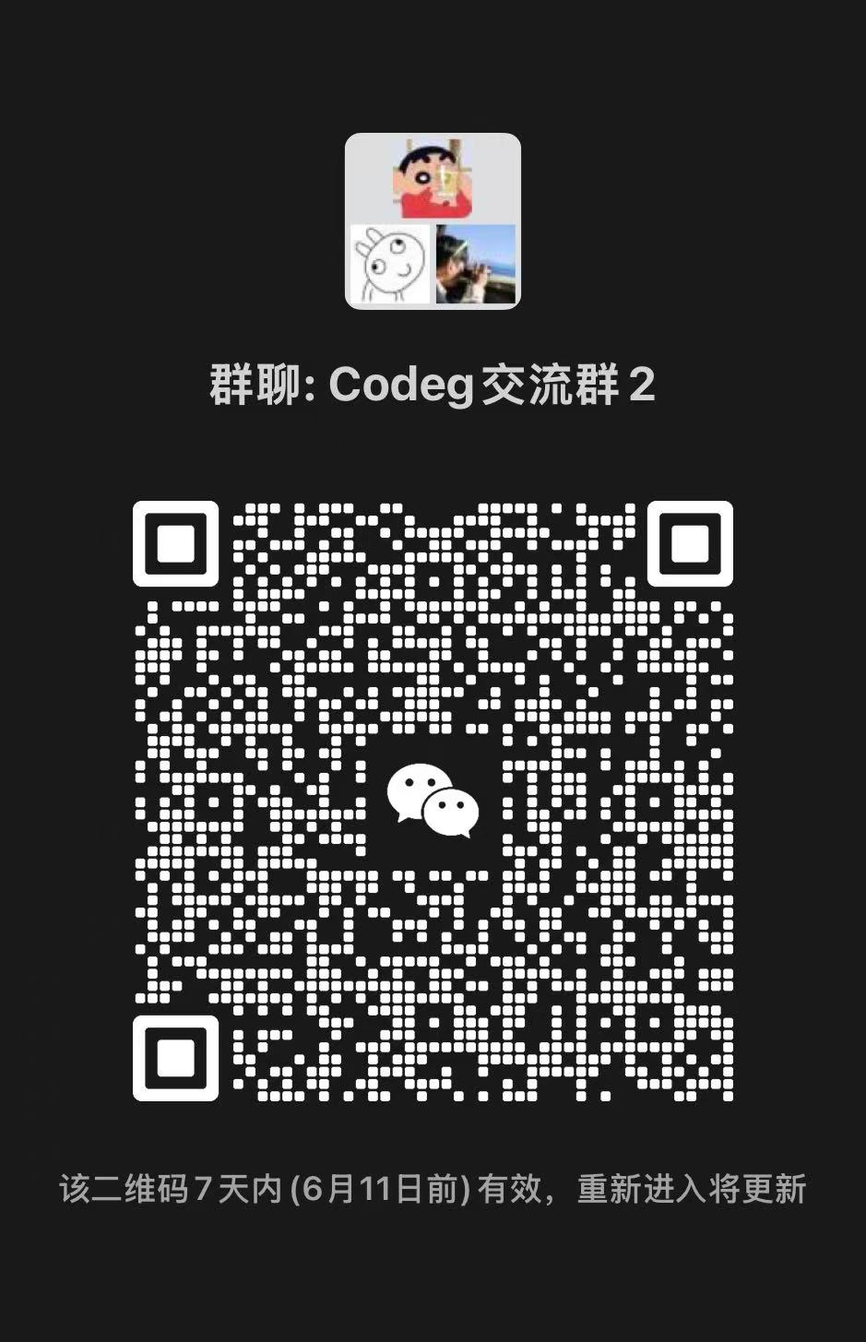
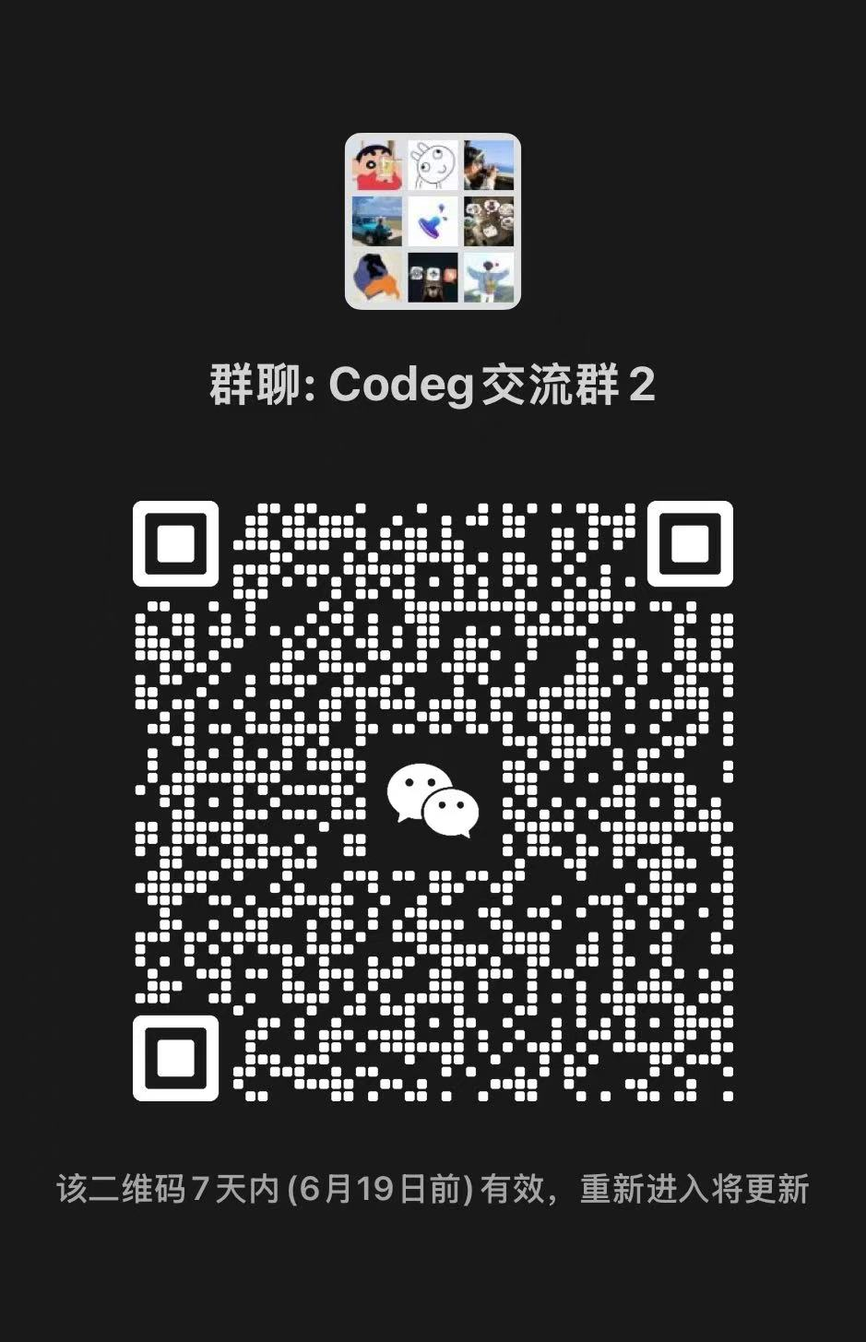
docs: rename Hermes to Hermes Agent and update WeChat images

diff --git a/docs/readme/README.ja.md b/docs/readme/README.ja.md
@@ -19,7 +19,7 @@
   <a href="./README.ar.md">العربية</a>
 </p>
 
-Codeg（Code Generation）は、マルチエージェント・コーディングワークスペースです。Claude Code、Codex CLI、OpenCode、Gemini CLI、OpenClaw、Cline、Hermes などの複数のエージェントを 1 つのワークスペースに統合し、会話の集約とマルチエージェント協働に対応します。デスクトップへのインストールに加え、サーバー/Docker デプロイにも対応しています。
+Codeg（Code Generation）は、マルチエージェント・コーディングワークスペースです。Claude Code、Codex CLI、OpenCode、Gemini CLI、OpenClaw、Cline、Hermes Agent などの複数のエージェントを 1 つのワークスペースに統合し、会話の集約とマルチエージェント協働に対応します。デスクトップへのインストールに加え、サーバー/Docker デプロイにも対応しています。
 
 ![gallery](../images/gallery.svg)
 
@@ -70,15 +70,15 @@ Codeg（Code Generation）は、マルチエージェント・コーディング
 
 ## 対応エージェント
 
-| Agent       | 環境変数パス                          | macOS / Linux デフォルト              | Windows デフォルト                                    |
-| ----------- | ------------------------------------- | ------------------------------------- | ----------------------------------------------------- |
-| Claude Code | `$CLAUDE_CONFIG_DIR/projects`         | `~/.claude/projects`                  | `%USERPROFILE%\\.claude\\projects`                    |
-| Codex CLI   | `$CODEX_HOME/sessions`                | `~/.codex/sessions`                   | `%USERPROFILE%\\.codex\\sessions`                     |
-| OpenCode    | `$XDG_DATA_HOME/opencode/opencode.db` | `~/.local/share/opencode/opencode.db` | `%USERPROFILE%\\.local\\share\\opencode\\opencode.db` |
-| Gemini CLI  | `$GEMINI_CLI_HOME/.gemini`            | `~/.gemini`                           | `%USERPROFILE%\\.gemini`                              |
-| OpenClaw    | —                                     | `~/.openclaw/agents`                  | `%USERPROFILE%\\.openclaw\\agents`                    |
-| Cline       | `$CLINE_DIR`                          | `~/.cline/data/tasks`                 | `%USERPROFILE%\\.cline\\data\\tasks`                  |
-| Hermes      | `$HERMES_HOME/state.db`               | `~/.hermes/state.db`                  | `%USERPROFILE%\\.hermes\\state.db`                    |
+| Agent        | 環境変数パス                          | macOS / Linux デフォルト              | Windows デフォルト                                    |
+| ------------ | ------------------------------------- | ------------------------------------- | ----------------------------------------------------- |
+| Claude Code  | `$CLAUDE_CONFIG_DIR/projects`         | `~/.claude/projects`                  | `%USERPROFILE%\\.claude\\projects`                    |
+| Codex CLI    | `$CODEX_HOME/sessions`                | `~/.codex/sessions`                   | `%USERPROFILE%\\.codex\\sessions`                     |
+| OpenCode     | `$XDG_DATA_HOME/opencode/opencode.db` | `~/.local/share/opencode/opencode.db` | `%USERPROFILE%\\.local\\share\\opencode\\opencode.db` |
+| Gemini CLI   | `$GEMINI_CLI_HOME/.gemini`            | `~/.gemini`                           | `%USERPROFILE%\\.gemini`                              |
+| OpenClaw     | —                                     | `~/.openclaw/agents`                  | `%USERPROFILE%\\.openclaw\\agents`                    |
+| Cline        | `$CLINE_DIR`                          | `~/.cline/data/tasks`                 | `%USERPROFILE%\\.cline\\data\\tasks`                  |
+| Hermes Agent | `$HERMES_HOME/state.db`               | `~/.hermes/state.db`                  | `%USERPROFILE%\\.hermes\\state.db`                    |
 
 > 注: 環境変数はフォールバックパスより優先されます。
 

diff --git a/docs/readme/README.fr.md b/docs/readme/README.fr.md
@@ -19,7 +19,7 @@
   <a href="./README.ar.md">العربية</a>
 </p>
 
-Codeg (Code Generation) est un espace de travail de codage multi-agent. Il réunit plusieurs agents (Claude Code, Codex CLI, OpenCode, Gemini CLI, OpenClaw, Cline, Hermes, etc.) dans un seul espace de travail, prend en charge l'agrégation des conversations et la collaboration multi-agent, ainsi que l'installation desktop et le déploiement serveur/Docker.
+Codeg (Code Generation) est un espace de travail de codage multi-agent. Il réunit plusieurs agents (Claude Code, Codex CLI, OpenCode, Gemini CLI, OpenClaw, Cline, Hermes Agent, etc.) dans un seul espace de travail, prend en charge l'agrégation des conversations et la collaboration multi-agent, ainsi que l'installation desktop et le déploiement serveur/Docker.
 
 ![gallery](../images/gallery.svg)
 
@@ -70,15 +70,15 @@ Codeg (Code Generation) est un espace de travail de codage multi-agent. Il réun
 
 ## Agents supportés
 
-| Agent       | Chemin via variable d'environnement   | Défaut macOS / Linux                  | Défaut Windows                                        |
-| ----------- | ------------------------------------- | ------------------------------------- | ----------------------------------------------------- |
-| Claude Code | `$CLAUDE_CONFIG_DIR/projects`         | `~/.claude/projects`                  | `%USERPROFILE%\\.claude\\projects`                    |
-| Codex CLI   | `$CODEX_HOME/sessions`                | `~/.codex/sessions`                   | `%USERPROFILE%\\.codex\\sessions`                     |
-| OpenCode    | `$XDG_DATA_HOME/opencode/opencode.db` | `~/.local/share/opencode/opencode.db` | `%USERPROFILE%\\.local\\share\\opencode\\opencode.db` |
-| Gemini CLI  | `$GEMINI_CLI_HOME/.gemini`            | `~/.gemini`                           | `%USERPROFILE%\\.gemini`                              |
-| OpenClaw    | —                                     | `~/.openclaw/agents`                  | `%USERPROFILE%\\.openclaw\\agents`                    |
-| Cline       | `$CLINE_DIR`                          | `~/.cline/data/tasks`                 | `%USERPROFILE%\\.cline\\data\\tasks`                  |
-| Hermes      | `$HERMES_HOME/state.db`               | `~/.hermes/state.db`                  | `%USERPROFILE%\\.hermes\\state.db`                    |
+| Agent        | Chemin via variable d'environnement   | Défaut macOS / Linux                  | Défaut Windows                                        |
+| ------------ | ------------------------------------- | ------------------------------------- | ----------------------------------------------------- |
+| Claude Code  | `$CLAUDE_CONFIG_DIR/projects`         | `~/.claude/projects`                  | `%USERPROFILE%\\.claude\\projects`                    |
+| Codex CLI    | `$CODEX_HOME/sessions`                | `~/.codex/sessions`                   | `%USERPROFILE%\\.codex\\sessions`                     |
+| OpenCode     | `$XDG_DATA_HOME/opencode/opencode.db` | `~/.local/share/opencode/opencode.db` | `%USERPROFILE%\\.local\\share\\opencode\\opencode.db` |
+| Gemini CLI   | `$GEMINI_CLI_HOME/.gemini`            | `~/.gemini`                           | `%USERPROFILE%\\.gemini`                              |
+| OpenClaw     | —                                     | `~/.openclaw/agents`                  | `%USERPROFILE%\\.openclaw\\agents`                    |
+| Cline        | `$CLINE_DIR`                          | `~/.cline/data/tasks`                 | `%USERPROFILE%\\.cline\\data\\tasks`                  |
+| Hermes Agent | `$HERMES_HOME/state.db`               | `~/.hermes/state.db`                  | `%USERPROFILE%\\.hermes\\state.db`                    |
 
 > Remarque : les variables d'environnement ont priorité sur les chemins par défaut.
 

diff --git a/docs/readme/README.ko.md b/docs/readme/README.ko.md
@@ -19,7 +19,7 @@
   <a href="./README.ar.md">العربية</a>
 </p>
 
-Codeg(Code Generation)는 멀티 에이전트 코딩 워크스페이스입니다. Claude Code, Codex CLI, OpenCode, Gemini CLI, OpenClaw, Cline, Hermes 등의 여러 에이전트를 하나의 워크스페이스로 통합하며, 대화 집계와 멀티 에이전트 협업을 지원하고 데스크톱 설치와 서버/Docker 배포를 지원합니다.
+Codeg(Code Generation)는 멀티 에이전트 코딩 워크스페이스입니다. Claude Code, Codex CLI, OpenCode, Gemini CLI, OpenClaw, Cline, Hermes Agent 등의 여러 에이전트를 하나의 워크스페이스로 통합하며, 대화 집계와 멀티 에이전트 협업을 지원하고 데스크톱 설치와 서버/Docker 배포를 지원합니다.
 
 ![gallery](../images/gallery.svg)
 
@@ -70,15 +70,15 @@ Codeg(Code Generation)는 멀티 에이전트 코딩 워크스페이스입니다
 
 ## 지원 에이전트
 
-| Agent       | 환경 변수 경로                        | macOS / Linux 기본값                  | Windows 기본값                                        |
-| ----------- | ------------------------------------- | ------------------------------------- | ----------------------------------------------------- |
-| Claude Code | `$CLAUDE_CONFIG_DIR/projects`         | `~/.claude/projects`                  | `%USERPROFILE%\\.claude\\projects`                    |
-| Codex CLI   | `$CODEX_HOME/sessions`                | `~/.codex/sessions`                   | `%USERPROFILE%\\.codex\\sessions`                     |
-| OpenCode    | `$XDG_DATA_HOME/opencode/opencode.db` | `~/.local/share/opencode/opencode.db` | `%USERPROFILE%\\.local\\share\\opencode\\opencode.db` |
-| Gemini CLI  | `$GEMINI_CLI_HOME/.gemini`            | `~/.gemini`                           | `%USERPROFILE%\\.gemini`                              |
-| OpenClaw    | —                                     | `~/.openclaw/agents`                  | `%USERPROFILE%\\.openclaw\\agents`                    |
-| Cline       | `$CLINE_DIR`                          | `~/.cline/data/tasks`                 | `%USERPROFILE%\\.cline\\data\\tasks`                  |
-| Hermes      | `$HERMES_HOME/state.db`               | `~/.hermes/state.db`                  | `%USERPROFILE%\\.hermes\\state.db`                    |
+| Agent        | 환경 변수 경로                        | macOS / Linux 기본값                  | Windows 기본값                                        |
+| ------------ | ------------------------------------- | ------------------------------------- | ----------------------------------------------------- |
+| Claude Code  | `$CLAUDE_CONFIG_DIR/projects`         | `~/.claude/projects`                  | `%USERPROFILE%\\.claude\\projects`                    |
+| Codex CLI    | `$CODEX_HOME/sessions`                | `~/.codex/sessions`                   | `%USERPROFILE%\\.codex\\sessions`                     |
+| OpenCode     | `$XDG_DATA_HOME/opencode/opencode.db` | `~/.local/share/opencode/opencode.db` | `%USERPROFILE%\\.local\\share\\opencode\\opencode.db` |
+| Gemini CLI   | `$GEMINI_CLI_HOME/.gemini`            | `~/.gemini`                           | `%USERPROFILE%\\.gemini`                              |
+| OpenClaw     | —                                     | `~/.openclaw/agents`                  | `%USERPROFILE%\\.openclaw\\agents`                    |
+| Cline        | `$CLINE_DIR`                          | `~/.cline/data/tasks`                 | `%USERPROFILE%\\.cline\\data\\tasks`                  |
+| Hermes Agent | `$HERMES_HOME/state.db`               | `~/.hermes/state.db`                  | `%USERPROFILE%\\.hermes\\state.db`                    |
 
 > 참고: 환경 변수가 기본 경로보다 우선합니다.
 

diff --git a/docs/readme/README.es.md b/docs/readme/README.es.md
@@ -19,7 +19,7 @@
   <a href="./README.ar.md">العربية</a>
 </p>
 
-Codeg (Code Generation) es un espacio de trabajo de codificación multiagente. Unifica varios agentes (Claude Code, Codex CLI, OpenCode, Gemini CLI, OpenClaw, Cline, Hermes, etc.) en un único espacio de trabajo, admite agregación de conversaciones y colaboración multiagente, y permite instalación de escritorio y despliegue en servidor/Docker.
+Codeg (Code Generation) es un espacio de trabajo de codificación multiagente. Unifica varios agentes (Claude Code, Codex CLI, OpenCode, Gemini CLI, OpenClaw, Cline, Hermes Agent, etc.) en un único espacio de trabajo, admite agregación de conversaciones y colaboración multiagente, y permite instalación de escritorio y despliegue en servidor/Docker.
 
 ![gallery](../images/gallery.svg)
 
@@ -70,15 +70,15 @@ Codeg (Code Generation) es un espacio de trabajo de codificación multiagente. U
 
 ## Agentes compatibles
 
-| Agente      | Ruta de variable de entorno           | Ruta por defecto en macOS / Linux     | Ruta por defecto en Windows                           |
-| ----------- | ------------------------------------- | ------------------------------------- | ----------------------------------------------------- |
-| Claude Code | `$CLAUDE_CONFIG_DIR/projects`         | `~/.claude/projects`                  | `%USERPROFILE%\\.claude\\projects`                    |
-| Codex CLI   | `$CODEX_HOME/sessions`                | `~/.codex/sessions`                   | `%USERPROFILE%\\.codex\\sessions`                     |
-| OpenCode    | `$XDG_DATA_HOME/opencode/opencode.db` | `~/.local/share/opencode/opencode.db` | `%USERPROFILE%\\.local\\share\\opencode\\opencode.db` |
-| Gemini CLI  | `$GEMINI_CLI_HOME/.gemini`            | `~/.gemini`                           | `%USERPROFILE%\\.gemini`                              |
-| OpenClaw    | —                                     | `~/.openclaw/agents`                  | `%USERPROFILE%\\.openclaw\\agents`                    |
-| Cline       | `$CLINE_DIR`                          | `~/.cline/data/tasks`                 | `%USERPROFILE%\\.cline\\data\\tasks`                  |
-| Hermes      | `$HERMES_HOME/state.db`               | `~/.hermes/state.db`                  | `%USERPROFILE%\\.hermes\\state.db`                    |
+| Agente       | Ruta de variable de entorno           | Ruta por defecto en macOS / Linux     | Ruta por defecto en Windows                           |
+| ------------ | ------------------------------------- | ------------------------------------- | ----------------------------------------------------- |
+| Claude Code  | `$CLAUDE_CONFIG_DIR/projects`         | `~/.claude/projects`                  | `%USERPROFILE%\\.claude\\projects`                    |
+| Codex CLI    | `$CODEX_HOME/sessions`                | `~/.codex/sessions`                   | `%USERPROFILE%\\.codex\\sessions`                     |
+| OpenCode     | `$XDG_DATA_HOME/opencode/opencode.db` | `~/.local/share/opencode/opencode.db` | `%USERPROFILE%\\.local\\share\\opencode\\opencode.db` |
+| Gemini CLI   | `$GEMINI_CLI_HOME/.gemini`            | `~/.gemini`                           | `%USERPROFILE%\\.gemini`                              |
+| OpenClaw     | —                                     | `~/.openclaw/agents`                  | `%USERPROFILE%\\.openclaw\\agents`                    |
+| Cline        | `$CLINE_DIR`                          | `~/.cline/data/tasks`                 | `%USERPROFILE%\\.cline\\data\\tasks`                  |
+| Hermes Agent | `$HERMES_HOME/state.db`               | `~/.hermes/state.db`                  | `%USERPROFILE%\\.hermes\\state.db`                    |
 
 > Nota: las variables de entorno tienen prioridad sobre las rutas de respaldo.
 

diff --git a/docs/readme/README.pt.md b/docs/readme/README.pt.md
@@ -19,7 +19,7 @@
   <a href="./README.ar.md">العربية</a>
 </p>
 
-Codeg (Code Generation) é um workspace de codificação multiagente. Ele reúne vários agentes (Claude Code, Codex CLI, OpenCode, Gemini CLI, OpenClaw, Cline, Hermes, etc.) em um único workspace, com suporte à agregação de conversas e à colaboração multiagente, além de instalação desktop e implantação em servidor/Docker.
+Codeg (Code Generation) é um workspace de codificação multiagente. Ele reúne vários agentes (Claude Code, Codex CLI, OpenCode, Gemini CLI, OpenClaw, Cline, Hermes Agent, etc.) em um único workspace, com suporte à agregação de conversas e à colaboração multiagente, além de instalação desktop e implantação em servidor/Docker.
 
 ![gallery](../images/gallery.svg)
 
@@ -70,15 +70,15 @@ Codeg (Code Generation) é um workspace de codificação multiagente. Ele reúne
 
 ## Agentes suportados
 
-| Agente      | Caminho por variável de ambiente      | Padrão macOS / Linux                  | Padrão Windows                                        |
-| ----------- | ------------------------------------- | ------------------------------------- | ----------------------------------------------------- |
-| Claude Code | `$CLAUDE_CONFIG_DIR/projects`         | `~/.claude/projects`                  | `%USERPROFILE%\\.claude\\projects`                    |
-| Codex CLI   | `$CODEX_HOME/sessions`                | `~/.codex/sessions`                   | `%USERPROFILE%\\.codex\\sessions`                     |
-| OpenCode    | `$XDG_DATA_HOME/opencode/opencode.db` | `~/.local/share/opencode/opencode.db` | `%USERPROFILE%\\.local\\share\\opencode\\opencode.db` |
-| Gemini CLI  | `$GEMINI_CLI_HOME/.gemini`            | `~/.gemini`                           | `%USERPROFILE%\\.gemini`                              |
-| OpenClaw    | —                                     | `~/.openclaw/agents`                  | `%USERPROFILE%\\.openclaw\\agents`                    |
-| Cline       | `$CLINE_DIR`                          | `~/.cline/data/tasks`                 | `%USERPROFILE%\\.cline\\data\\tasks`                  |
-| Hermes      | `$HERMES_HOME/state.db`               | `~/.hermes/state.db`                  | `%USERPROFILE%\\.hermes\\state.db`                    |
+| Agente       | Caminho por variável de ambiente      | Padrão macOS / Linux                  | Padrão Windows                                        |
+| ------------ | ------------------------------------- | ------------------------------------- | ----------------------------------------------------- |
+| Claude Code  | `$CLAUDE_CONFIG_DIR/projects`         | `~/.claude/projects`                  | `%USERPROFILE%\\.claude\\projects`                    |
+| Codex CLI    | `$CODEX_HOME/sessions`                | `~/.codex/sessions`                   | `%USERPROFILE%\\.codex\\sessions`                     |
+| OpenCode     | `$XDG_DATA_HOME/opencode/opencode.db` | `~/.local/share/opencode/opencode.db` | `%USERPROFILE%\\.local\\share\\opencode\\opencode.db` |
+| Gemini CLI   | `$GEMINI_CLI_HOME/.gemini`            | `~/.gemini`                           | `%USERPROFILE%\\.gemini`                              |
+| OpenClaw     | —                                     | `~/.openclaw/agents`                  | `%USERPROFILE%\\.openclaw\\agents`                    |
+| Cline        | `$CLINE_DIR`                          | `~/.cline/data/tasks`                 | `%USERPROFILE%\\.cline\\data\\tasks`                  |
+| Hermes Agent | `$HERMES_HOME/state.db`               | `~/.hermes/state.db`                  | `%USERPROFILE%\\.hermes\\state.db`                    |
 
 > Nota: as variáveis de ambiente têm prioridade sobre os caminhos padrão.
 

diff --git a/docs/readme/README.de.md b/docs/readme/README.de.md
@@ -19,7 +19,7 @@
   <a href="./README.ar.md">العربية</a>
 </p>
 
-Codeg (Code Generation) ist ein Multi-Agent-Coding-Workspace. Es vereint mehrere Agenten (Claude Code, Codex CLI, OpenCode, Gemini CLI, OpenClaw, Cline, Hermes usw.) in einem Arbeitsbereich, unterstützt Konversationsaggregation und Multi-Agent-Zusammenarbeit sowie Desktop-Installation und Server-/Docker-Bereitstellung.
+Codeg (Code Generation) ist ein Multi-Agent-Coding-Workspace. Es vereint mehrere Agenten (Claude Code, Codex CLI, OpenCode, Gemini CLI, OpenClaw, Cline, Hermes Agent usw.) in einem Arbeitsbereich, unterstützt Konversationsaggregation und Multi-Agent-Zusammenarbeit sowie Desktop-Installation und Server-/Docker-Bereitstellung.
 
 ![gallery](../images/gallery.svg)
 
@@ -70,15 +70,15 @@ Codeg (Code Generation) ist ein Multi-Agent-Coding-Workspace. Es vereint mehrere
 
 ## Unterstützte Agenten
 
-| Agent       | Umgebungsvariablen-Pfad               | macOS / Linux Standard                | Windows Standard                                      |
-| ----------- | ------------------------------------- | ------------------------------------- | ----------------------------------------------------- |
-| Claude Code | `$CLAUDE_CONFIG_DIR/projects`         | `~/.claude/projects`                  | `%USERPROFILE%\\.claude\\projects`                    |
-| Codex CLI   | `$CODEX_HOME/sessions`                | `~/.codex/sessions`                   | `%USERPROFILE%\\.codex\\sessions`                     |
-| OpenCode    | `$XDG_DATA_HOME/opencode/opencode.db` | `~/.local/share/opencode/opencode.db` | `%USERPROFILE%\\.local\\share\\opencode\\opencode.db` |
-| Gemini CLI  | `$GEMINI_CLI_HOME/.gemini`            | `~/.gemini`                           | `%USERPROFILE%\\.gemini`                              |
-| OpenClaw    | —                                     | `~/.openclaw/agents`                  | `%USERPROFILE%\\.openclaw\\agents`                    |
-| Cline       | `$CLINE_DIR`                          | `~/.cline/data/tasks`                 | `%USERPROFILE%\\.cline\\data\\tasks`                  |
-| Hermes      | `$HERMES_HOME/state.db`               | `~/.hermes/state.db`                  | `%USERPROFILE%\\.hermes\\state.db`                    |
+| Agent        | Umgebungsvariablen-Pfad               | macOS / Linux Standard                | Windows Standard                                      |
+| ------------ | ------------------------------------- | ------------------------------------- | ----------------------------------------------------- |
+| Claude Code  | `$CLAUDE_CONFIG_DIR/projects`         | `~/.claude/projects`                  | `%USERPROFILE%\\.claude\\projects`                    |
+| Codex CLI    | `$CODEX_HOME/sessions`                | `~/.codex/sessions`                   | `%USERPROFILE%\\.codex\\sessions`                     |
+| OpenCode     | `$XDG_DATA_HOME/opencode/opencode.db` | `~/.local/share/opencode/opencode.db` | `%USERPROFILE%\\.local\\share\\opencode\\opencode.db` |
+| Gemini CLI   | `$GEMINI_CLI_HOME/.gemini`            | `~/.gemini`                           | `%USERPROFILE%\\.gemini`                              |
+| OpenClaw     | —                                     | `~/.openclaw/agents`                  | `%USERPROFILE%\\.openclaw\\agents`                    |
+| Cline        | `$CLINE_DIR`                          | `~/.cline/data/tasks`                 | `%USERPROFILE%\\.cline\\data\\tasks`                  |
+| Hermes Agent | `$HERMES_HOME/state.db`               | `~/.hermes/state.db`                  | `%USERPROFILE%\\.hermes\\state.db`                    |
 
 > Hinweis: Umgebungsvariablen haben Vorrang vor Fallback-Pfaden.
 

diff --git a/README.md b/README.md
@@ -19,7 +19,7 @@
   <a href="./docs/readme/README.ar.md">العربية</a>
 </p>
 
-Codeg (Code Generation) is a multi-agent coding workspace. It brings multiple agents (Claude Code, Codex CLI, OpenCode, Gemini CLI, OpenClaw, Cline, Hermes, etc.) into one workspace, supporting conversation aggregation and multi-agent collaboration, with desktop installation plus server/Docker deployment.
+Codeg (Code Generation) is a multi-agent coding workspace. It brings multiple agents (Claude Code, Codex CLI, OpenCode, Gemini CLI, OpenClaw, Cline, Hermes Agent, etc.) into one workspace, supporting conversation aggregation and multi-agent collaboration, with desktop installation plus server/Docker deployment.
 
 ![gallery](./docs/images/gallery.svg)
 
@@ -70,15 +70,15 @@ Codeg (Code Generation) is a multi-agent coding workspace. It brings multiple ag
 
 ## Supported Agents
 
-| Agent       | Environment Variable Path             | macOS / Linux Default                 | Windows Default                                       |
-| ----------- | ------------------------------------- | ------------------------------------- | ----------------------------------------------------- |
-| Claude Code | `$CLAUDE_CONFIG_DIR/projects`         | `~/.claude/projects`                  | `%USERPROFILE%\\.claude\\projects`                    |
-| Codex CLI   | `$CODEX_HOME/sessions`                | `~/.codex/sessions`                   | `%USERPROFILE%\\.codex\\sessions`                     |
-| OpenCode    | `$XDG_DATA_HOME/opencode/opencode.db` | `~/.local/share/opencode/opencode.db` | `%USERPROFILE%\\.local\\share\\opencode\\opencode.db` |
-| Gemini CLI  | `$GEMINI_CLI_HOME/.gemini`            | `~/.gemini`                           | `%USERPROFILE%\\.gemini`                              |
-| OpenClaw    | —                                     | `~/.openclaw/agents`                  | `%USERPROFILE%\\.openclaw\\agents`                    |
-| Cline       | `$CLINE_DIR`                          | `~/.cline/data/tasks`                 | `%USERPROFILE%\\.cline\\data\\tasks`                  |
-| Hermes      | `$HERMES_HOME/state.db`               | `~/.hermes/state.db`                  | `%USERPROFILE%\\.hermes\\state.db`                    |
+| Agent        | Environment Variable Path             | macOS / Linux Default                 | Windows Default                                       |
+| ------------ | ------------------------------------- | ------------------------------------- | ----------------------------------------------------- |
+| Claude Code  | `$CLAUDE_CONFIG_DIR/projects`         | `~/.claude/projects`                  | `%USERPROFILE%\\.claude\\projects`                    |
+| Codex CLI    | `$CODEX_HOME/sessions`                | `~/.codex/sessions`                   | `%USERPROFILE%\\.codex\\sessions`                     |
+| OpenCode     | `$XDG_DATA_HOME/opencode/opencode.db` | `~/.local/share/opencode/opencode.db` | `%USERPROFILE%\\.local\\share\\opencode\\opencode.db` |
+| Gemini CLI   | `$GEMINI_CLI_HOME/.gemini`            | `~/.gemini`                           | `%USERPROFILE%\\.gemini`                              |
+| OpenClaw     | —                                     | `~/.openclaw/agents`                  | `%USERPROFILE%\\.openclaw\\agents`                    |
+| Cline        | `$CLINE_DIR`                          | `~/.cline/data/tasks`                 | `%USERPROFILE%\\.cline\\data\\tasks`                  |
+| Hermes Agent | `$HERMES_HOME/state.db`               | `~/.hermes/state.db`                  | `%USERPROFILE%\\.hermes\\state.db`                    |
 
 > Note: environment variables take precedence over fallback paths.
 

diff --git a/docs/readme/README.zh-TW.md b/docs/readme/README.zh-TW.md
@@ -19,7 +19,7 @@
   <a href="./README.ar.md">العربية</a>
 </p>
 
-Codeg（Code Generation）是一個多智慧體編碼工作台，它將多個智慧體（Claude Code、Codex CLI、OpenCode、Gemini CLI、OpenClaw、Cline、Hermes 等）統一到一個工作區中，支援會話彙整和多智慧體協作，支援桌面安裝、伺服器/Docker 部署。
+Codeg（Code Generation）是一個多智慧體編碼工作台，它將多個智慧體（Claude Code、Codex CLI、OpenCode、Gemini CLI、OpenClaw、Cline、Hermes Agent 等）統一到一個工作區中，支援會話彙整和多智慧體協作，支援桌面安裝、伺服器/Docker 部署。
 
 ![gallery](../images/gallery.svg)
 
@@ -70,15 +70,15 @@ Codeg（Code Generation）是一個多智慧體編碼工作台，它將多個智
 
 ## 支援的 Agent
 
-| Agent       | 環境變數優先路徑                      | macOS / Linux 預設路徑                | Windows 預設路徑                                      |
-| ----------- | ------------------------------------- | ------------------------------------- | ----------------------------------------------------- |
-| Claude Code | `$CLAUDE_CONFIG_DIR/projects`         | `~/.claude/projects`                  | `%USERPROFILE%\\.claude\\projects`                    |
-| Codex CLI   | `$CODEX_HOME/sessions`                | `~/.codex/sessions`                   | `%USERPROFILE%\\.codex\\sessions`                     |
-| OpenCode    | `$XDG_DATA_HOME/opencode/opencode.db` | `~/.local/share/opencode/opencode.db` | `%USERPROFILE%\\.local\\share\\opencode\\opencode.db` |
-| Gemini CLI  | `$GEMINI_CLI_HOME/.gemini`            | `~/.gemini`                           | `%USERPROFILE%\\.gemini`                              |
-| OpenClaw    | —                                     | `~/.openclaw/agents`                  | `%USERPROFILE%\\.openclaw\\agents`                    |
-| Cline       | `$CLINE_DIR`                          | `~/.cline/data/tasks`                 | `%USERPROFILE%\\.cline\\data\\tasks`                  |
-| Hermes      | `$HERMES_HOME/state.db`               | `~/.hermes/state.db`                  | `%USERPROFILE%\\.hermes\\state.db`                    |
+| Agent        | 環境變數優先路徑                      | macOS / Linux 預設路徑                | Windows 預設路徑                                      |
+| ------------ | ------------------------------------- | ------------------------------------- | ----------------------------------------------------- |
+| Claude Code  | `$CLAUDE_CONFIG_DIR/projects`         | `~/.claude/projects`                  | `%USERPROFILE%\\.claude\\projects`                    |
+| Codex CLI    | `$CODEX_HOME/sessions`                | `~/.codex/sessions`                   | `%USERPROFILE%\\.codex\\sessions`                     |
+| OpenCode     | `$XDG_DATA_HOME/opencode/opencode.db` | `~/.local/share/opencode/opencode.db` | `%USERPROFILE%\\.local\\share\\opencode\\opencode.db` |
+| Gemini CLI   | `$GEMINI_CLI_HOME/.gemini`            | `~/.gemini`                           | `%USERPROFILE%\\.gemini`                              |
+| OpenClaw     | —                                     | `~/.openclaw/agents`                  | `%USERPROFILE%\\.openclaw\\agents`                    |
+| Cline        | `$CLINE_DIR`                          | `~/.cline/data/tasks`                 | `%USERPROFILE%\\.cline\\data\\tasks`                  |
+| Hermes Agent | `$HERMES_HOME/state.db`               | `~/.hermes/state.db`                  | `%USERPROFILE%\\.hermes\\state.db`                    |
 
 > 注意：環境變數的優先順序高於預設路徑。
 

diff --git a/docs/readme/README.zh-CN.md b/docs/readme/README.zh-CN.md
@@ -19,7 +19,7 @@
   <a href="./README.ar.md">العربية</a>
 </p>
 
-Codeg（Code Generation）是一个多智能体编码工作台，它将多个智能体（Claude Code、Codex CLI、OpenCode、Gemini CLI、OpenClaw、Cline、Hermes 等）统一到一个工作区中，支持会话聚合和多智能体协作，支持桌面安装，服务器/Docker 部署。
+Codeg（Code Generation）是一个多智能体编码工作台，它将多个智能体（Claude Code、Codex CLI、OpenCode、Gemini CLI、OpenClaw、Cline、Hermes Agent 等）统一到一个工作区中，支持会话聚合和多智能体协作，支持桌面安装，服务器/Docker 部署。
 
 ![gallery](../images/gallery.svg)
 
@@ -70,15 +70,15 @@ Codeg（Code Generation）是一个多智能体编码工作台，它将多个智
 
 ## 支持的Agent
 
-| Agent       | 环境变量优先路径                      | macOS / Linux 默认路径                | Windows 默认路径                                      |
-| ----------- | ------------------------------------- | ------------------------------------- | ----------------------------------------------------- |
-| Claude Code | `$CLAUDE_CONFIG_DIR/projects`         | `~/.claude/projects`                  | `%USERPROFILE%\\.claude\\projects`                    |
-| Codex CLI   | `$CODEX_HOME/sessions`                | `~/.codex/sessions`                   | `%USERPROFILE%\\.codex\\sessions`                     |
-| OpenCode    | `$XDG_DATA_HOME/opencode/opencode.db` | `~/.local/share/opencode/opencode.db` | `%USERPROFILE%\\.local\\share\\opencode\\opencode.db` |
-| Gemini CLI  | `$GEMINI_CLI_HOME/.gemini`            | `~/.gemini`                           | `%USERPROFILE%\\.gemini`                              |
-| OpenClaw    | —                                     | `~/.openclaw/agents`                  | `%USERPROFILE%\\.openclaw\\agents`                    |
-| Cline       | `$CLINE_DIR`                          | `~/.cline/data/tasks`                 | `%USERPROFILE%\\.cline\\data\\tasks`                  |
-| Hermes      | `$HERMES_HOME/state.db`               | `~/.hermes/state.db`                  | `%USERPROFILE%\\.hermes\\state.db`                    |
+| Agent        | 环境变量优先路径                      | macOS / Linux 默认路径                | Windows 默认路径                                      |
+| ------------ | ------------------------------------- | ------------------------------------- | ----------------------------------------------------- |
+| Claude Code  | `$CLAUDE_CONFIG_DIR/projects`         | `~/.claude/projects`                  | `%USERPROFILE%\\.claude\\projects`                    |
+| Codex CLI    | `$CODEX_HOME/sessions`                | `~/.codex/sessions`                   | `%USERPROFILE%\\.codex\\sessions`                     |
+| OpenCode     | `$XDG_DATA_HOME/opencode/opencode.db` | `~/.local/share/opencode/opencode.db` | `%USERPROFILE%\\.local\\share\\opencode\\opencode.db` |
+| Gemini CLI   | `$GEMINI_CLI_HOME/.gemini`            | `~/.gemini`                           | `%USERPROFILE%\\.gemini`                              |
+| OpenClaw     | —                                     | `~/.openclaw/agents`                  | `%USERPROFILE%\\.openclaw\\agents`                    |
+| Cline        | `$CLINE_DIR`                          | `~/.cline/data/tasks`                 | `%USERPROFILE%\\.cline\\data\\tasks`                  |
+| Hermes Agent | `$HERMES_HOME/state.db`               | `~/.hermes/state.db`                  | `%USERPROFILE%\\.hermes\\state.db`                    |
 
 > 注意：环境变量的优先级高于默认路径。
 
